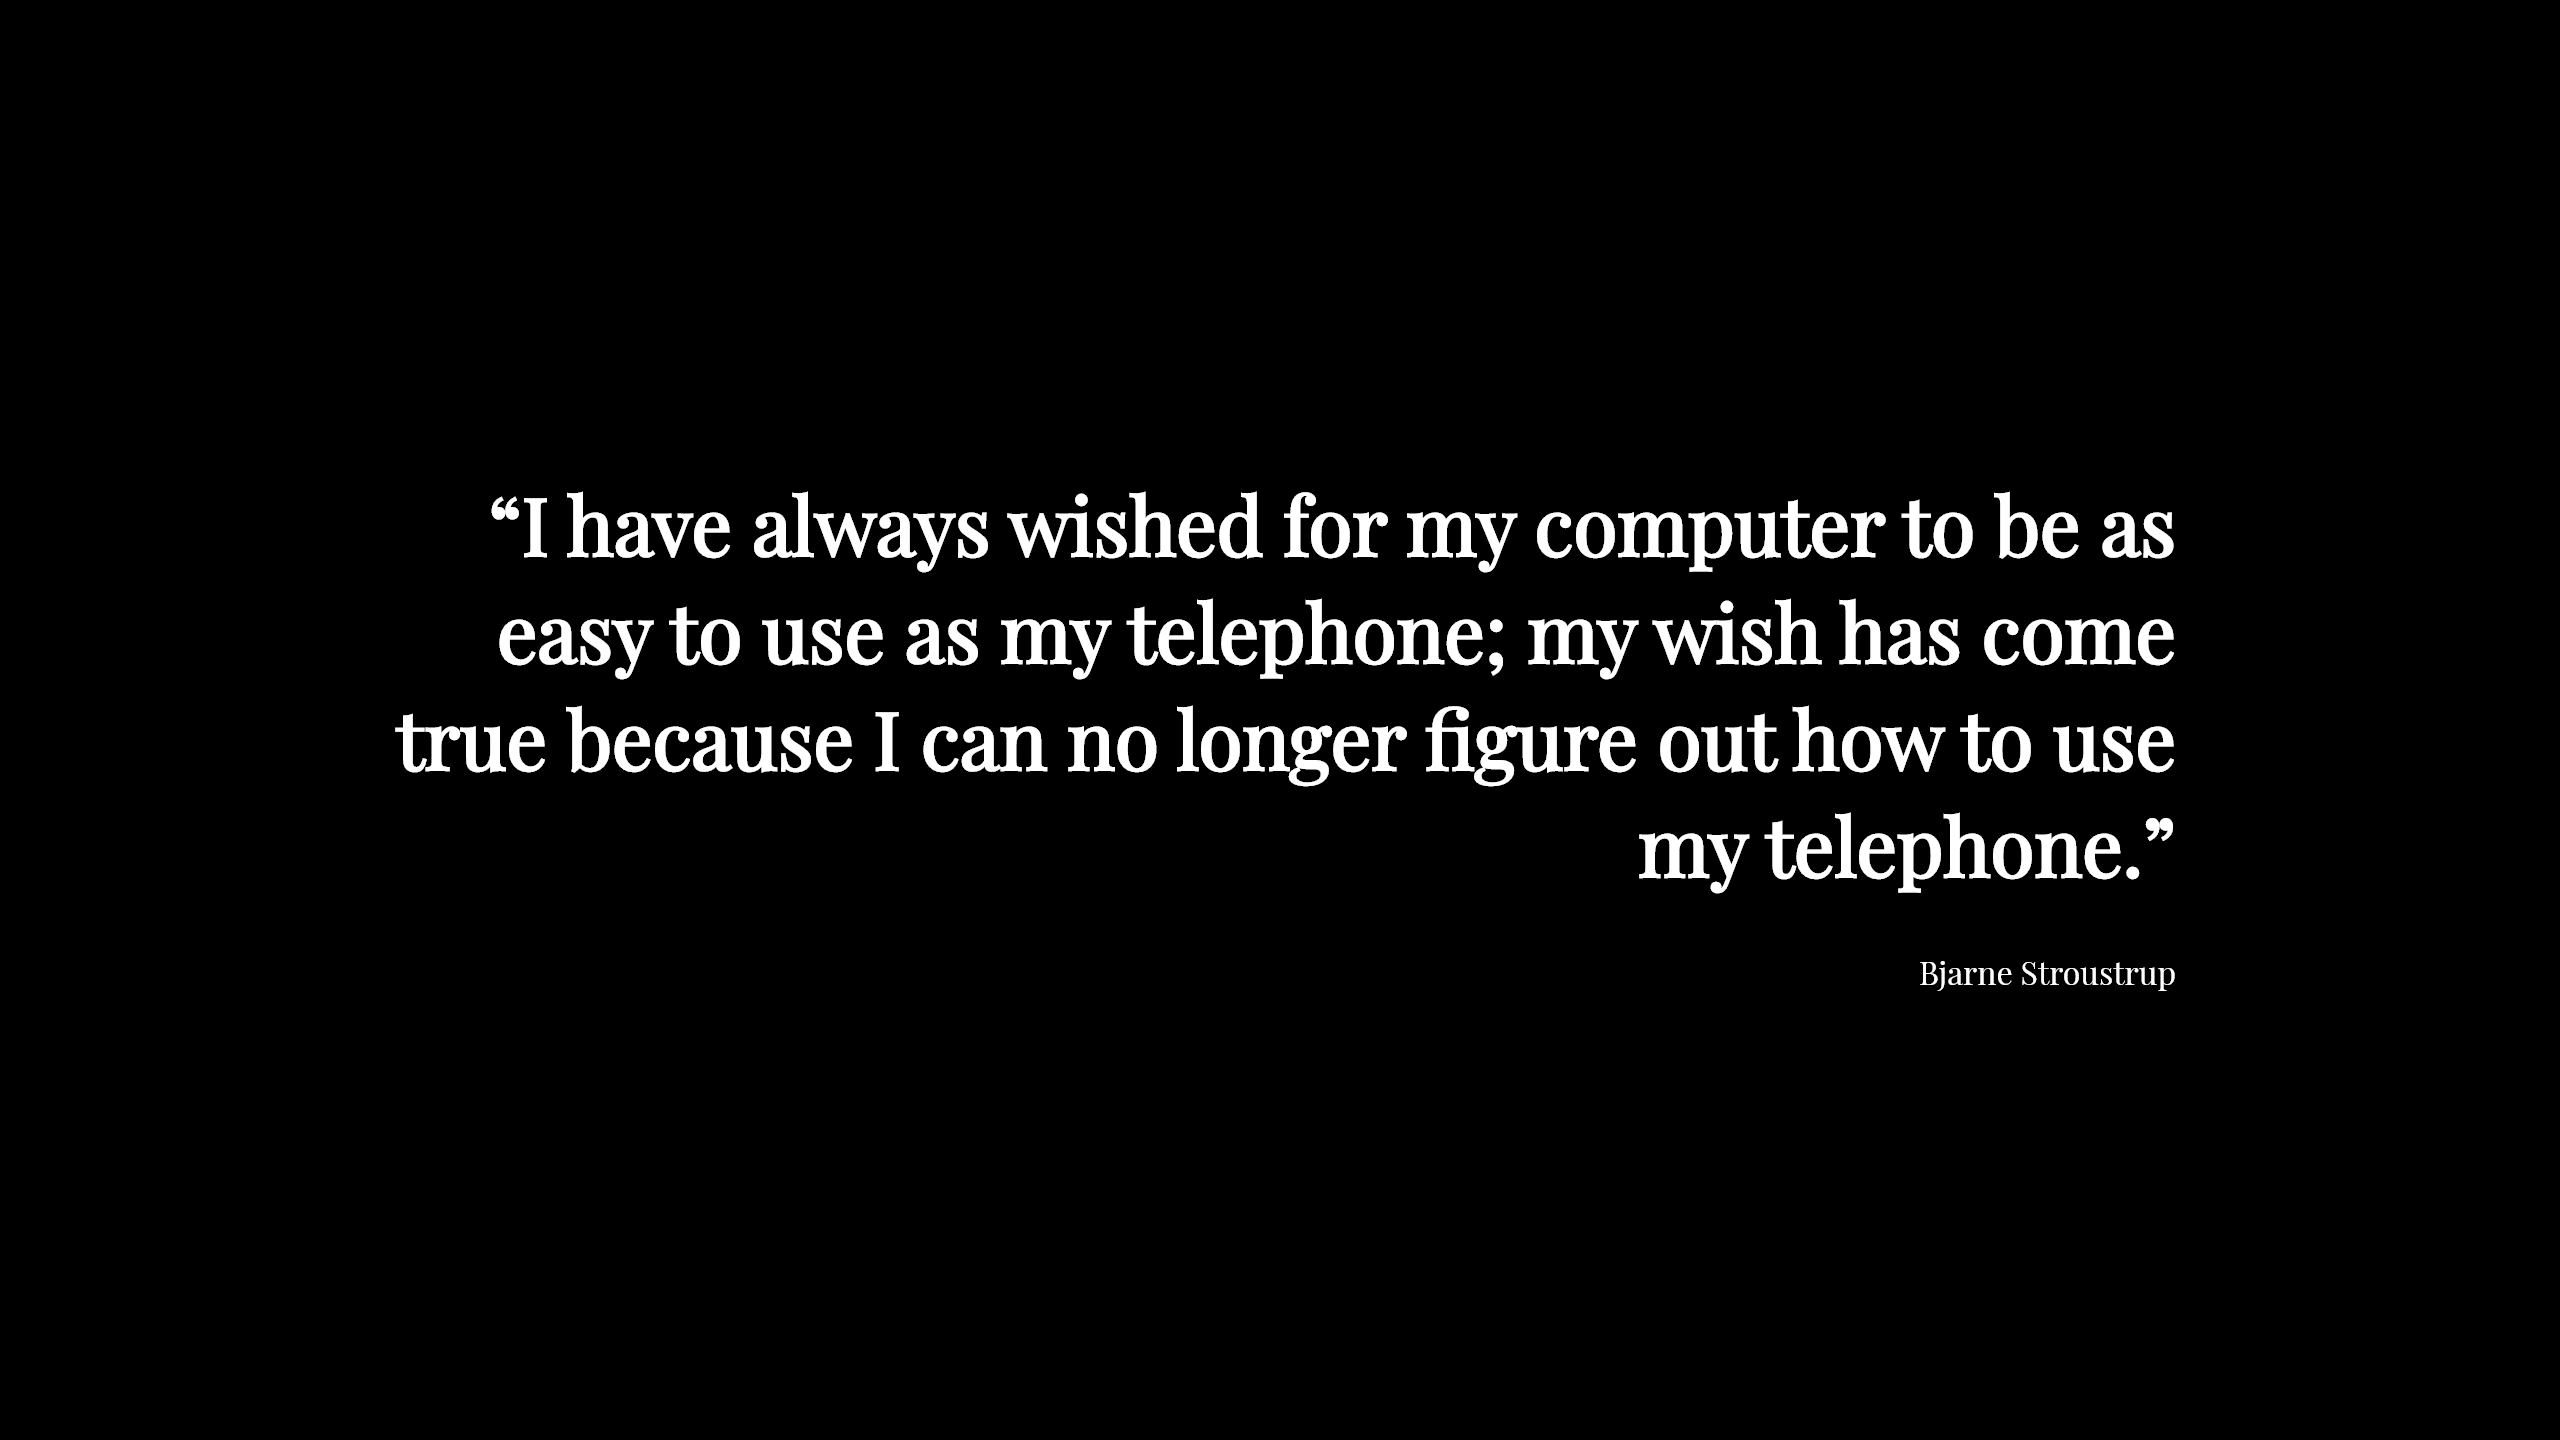
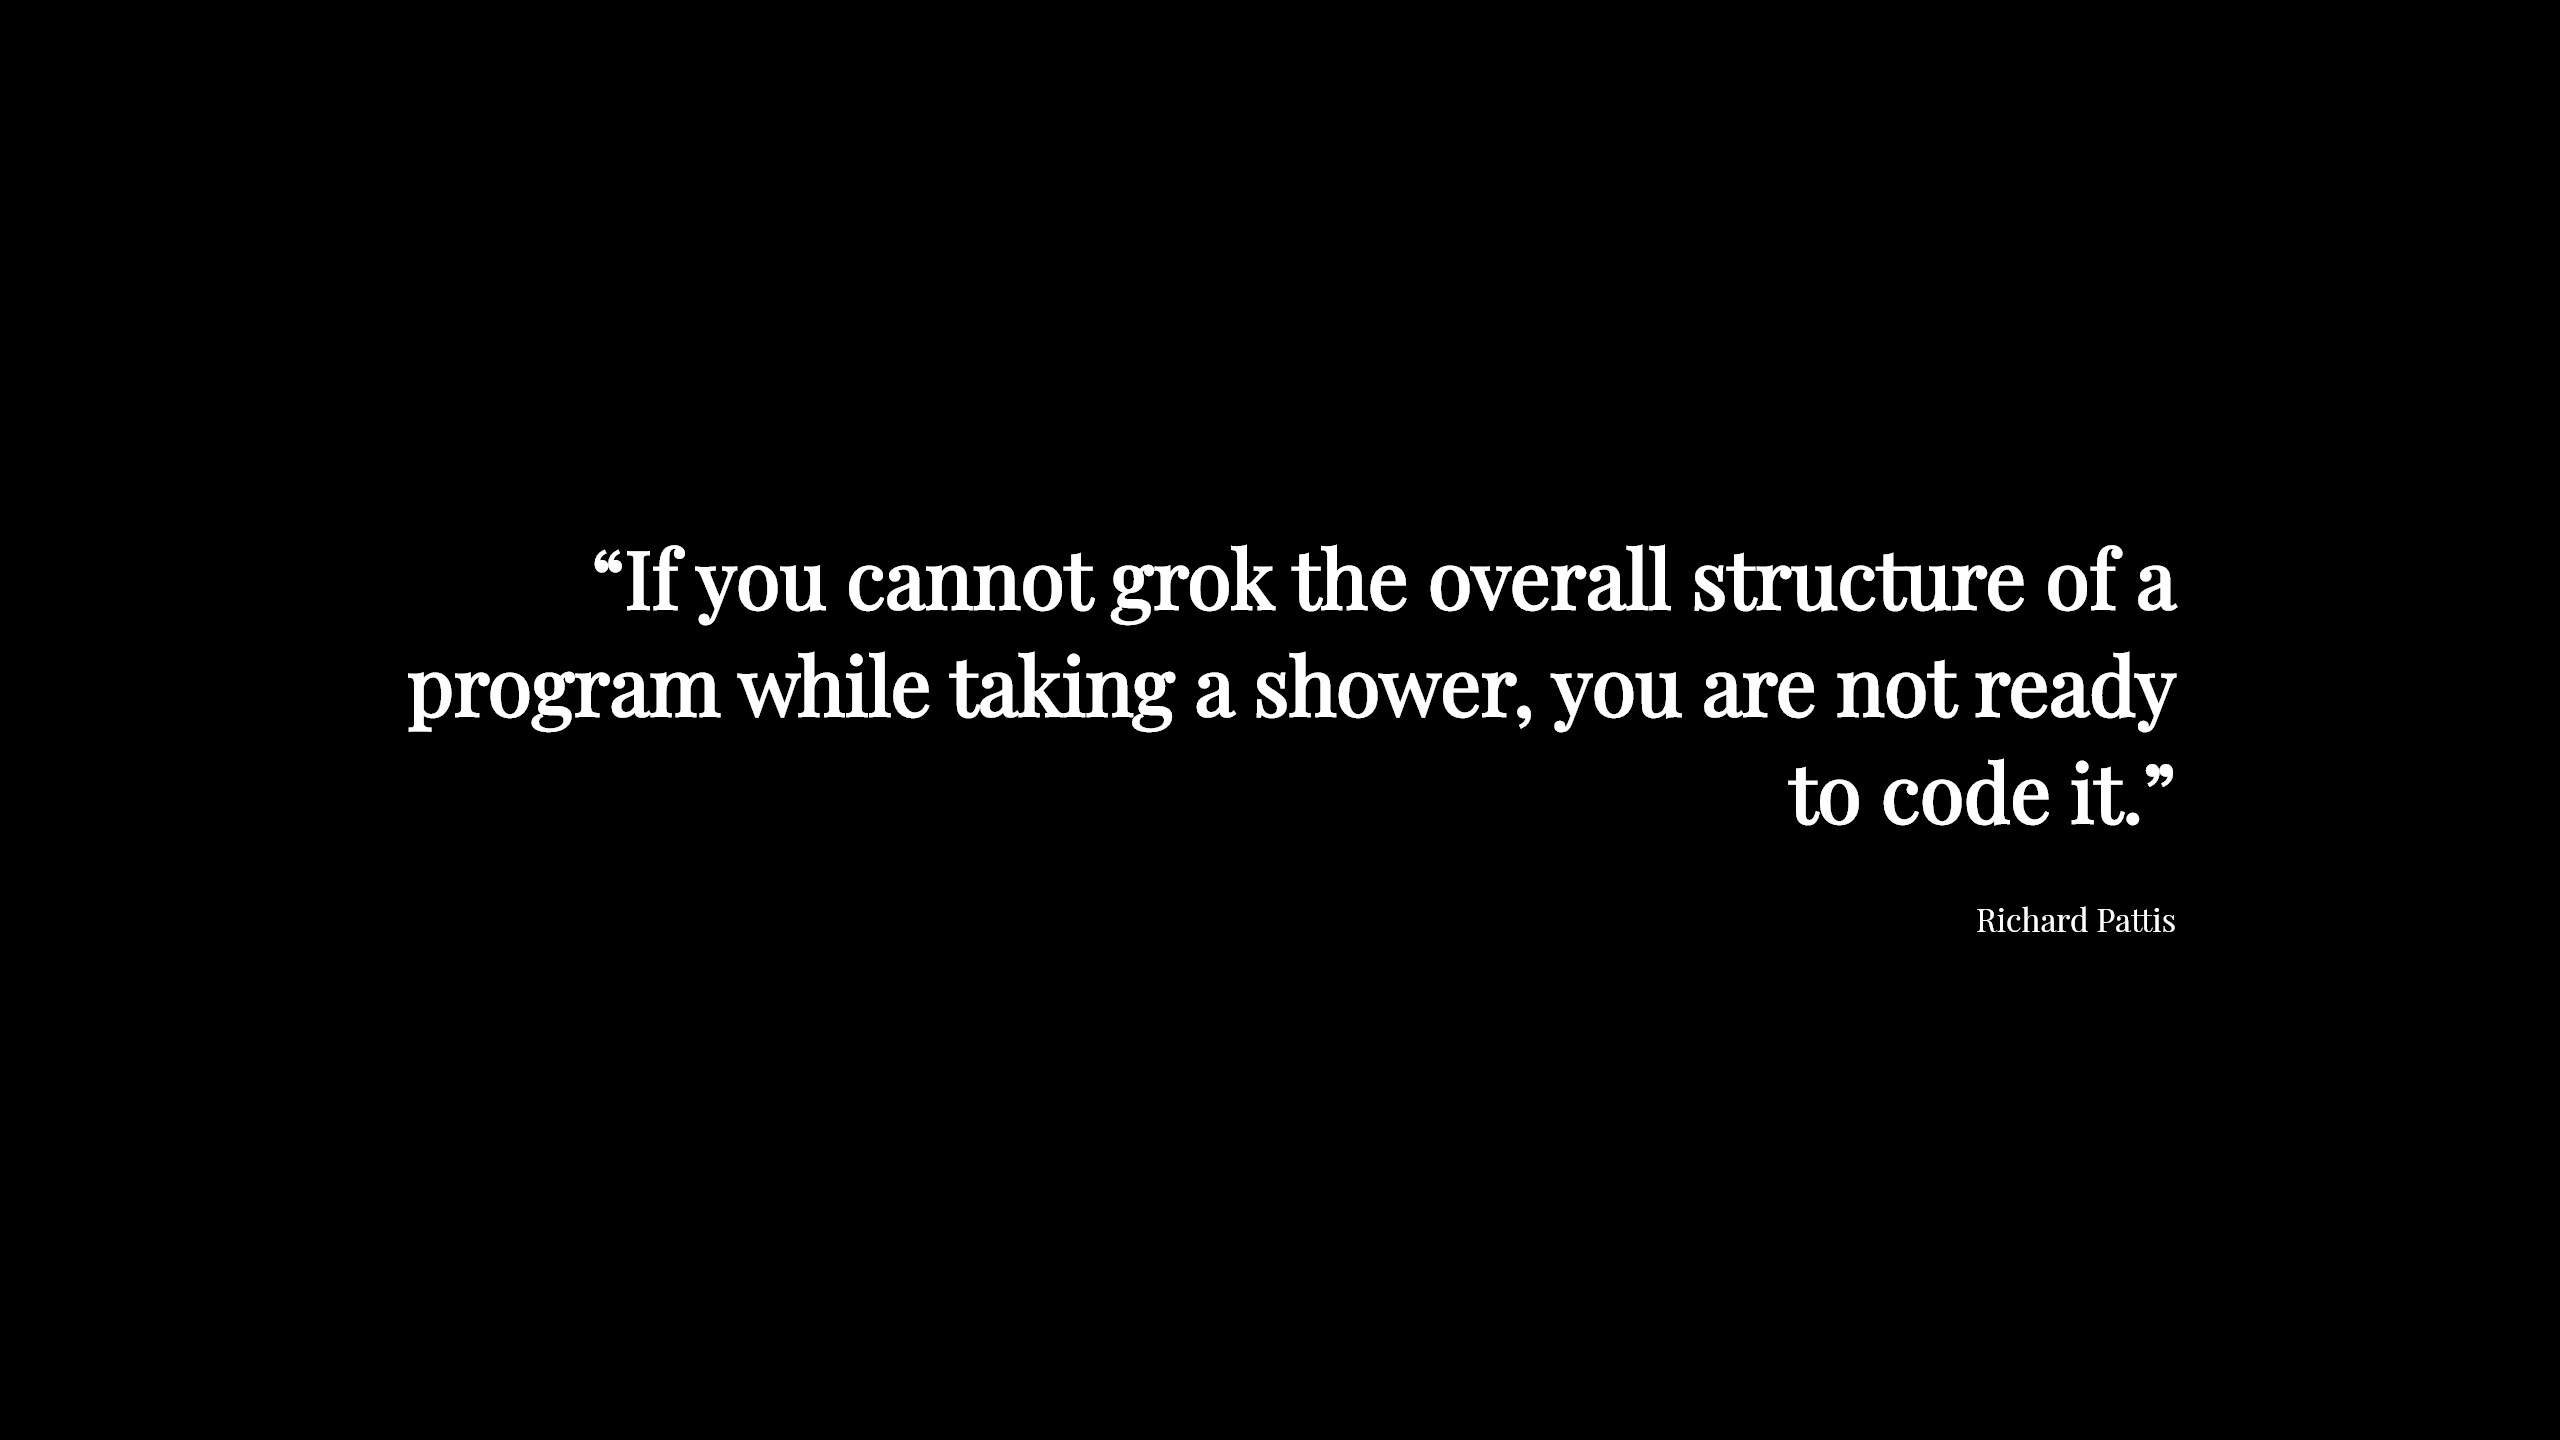
Remove quote

Changed region(s): [[0.1562, 0.3438, 0.875, 0.6875]]

diff --git a/src/quotes.ts b/src/quotes.ts
@@ -58,11 +58,6 @@ export const quotes: Array<Quote> = [
   },
   {
     text:
-      "I have always wished for my computer to be as easy to use as my telephone; my wish has come true because I can no longer figure out how to use my telephone.",
-    author: "Bjarne Stroustrup",
-  },
-  {
-    text:
       "If you cannot grok the overall structure of a program while taking a shower, you are not ready to code it.",
     author: "Richard Pattis",
   },
